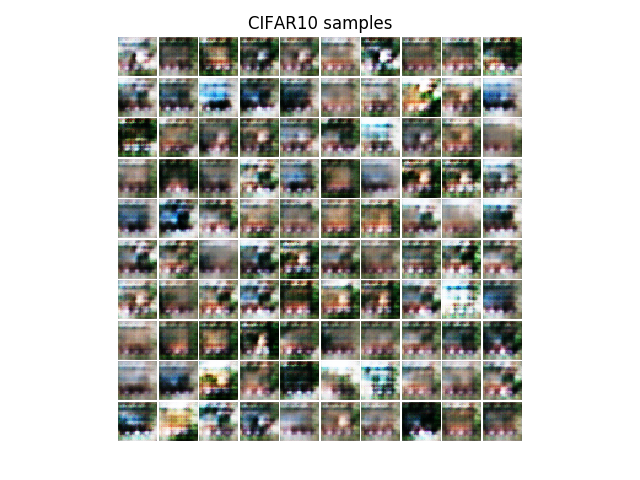
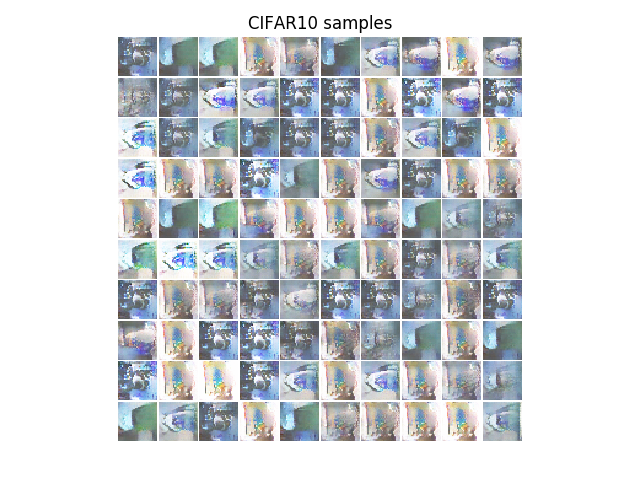
works on gris

diff --git a/mnist_svhn_cifar10/train_gris_feature_matching.py b/mnist_svhn_cifar10/train_gris_feature_matching.py
@@ -1,0 +1,202 @@
+import argparse
+import time
+import numpy as np
+import theano as th
+import theano.tensor as T
+from theano.sandbox.rng_mrg import MRG_RandomStreams
+import lasagne
+import lasagne.layers as ll
+from lasagne.init import Normal
+from lasagne.layers import dnn
+import nn
+import sys
+import plotting
+import cifar10_data
+import pickle
+
+# settings
+parser = argparse.ArgumentParser()
+parser.add_argument('--seed', default=1)
+parser.add_argument('--seed_data', default=1)
+parser.add_argument('--count', default=100)
+parser.add_argument('--batch_size', default=100)
+parser.add_argument('--unlabeled_weight', type=float, default=1.)
+parser.add_argument('--learning_rate', type=float, default=0.0003)
+parser.add_argument('--data_dir', type=str, default='./data/cifar-10-python')
+args = parser.parse_args()
+print(args)
+
+# fixed random seeds
+rng_data = np.random.RandomState(args.seed_data)
+rng = np.random.RandomState(args.seed)
+theano_rng = MRG_RandomStreams(rng.randint(2 ** 15))
+lasagne.random.set_rng(np.random.RandomState(rng.randint(2 ** 15)))
+
+
+with open("/misc/lmbraid19/mittal/master_thesis/git_repo/master-thesis-work/adversarial_autoencoder/pickles/GRIS_new_splits/train/split32x32/unlabeled/data_15000_1.pkl", 'rb') as pickle_load:
+   trainx = np.array(pickle.load(pickle_load))
+   trainx = np.swapaxes(trainx, 1, 3)
+with open("/misc/lmbraid19/mittal/master_thesis/git_repo/master-thesis-work/adversarial_autoencoder/pickles/GRIS_new_splits/train/split32x32/unlabeled/labels_15000_1.pkl", 'rb') as pickle_load:
+   trainy = np.array(pickle.load(pickle_load))
+	
+with open("/misc/lmbraid19/mittal/master_thesis/git_repo/master-thesis-work/adversarial_autoencoder/pickles/GRIS_new_splits/test/split32x32/selected/data_3000_1.pkl", 'rb') as pickle_load:
+   testx = np.array(pickle.load(pickle_load))
+   testx = np.swapaxes(testx, 1, 3)
+with open("/misc/lmbraid19/mittal/master_thesis/git_repo/master-thesis-work/adversarial_autoencoder/pickles/GRIS_new_splits/test/split32x32/selected/labels_3000_1.pkl", 'rb') as pickle_load:
+   testy = np.array(pickle.load(pickle_load))
+
+# load CIFAR-10
+#trainx, trainy = cifar10_data.load(args.data_dir, subset='train')
+trainx_unl = trainx.copy()
+trainx_unl2 = trainx.copy()
+#testx, testy = cifar10_data.load(args.data_dir, subset='test')
+nr_batches_train = int(trainx.shape[0]/args.batch_size)
+nr_batches_test = int(testx.shape[0]/args.batch_size)
+
+# specify generative model
+noise_dim = (args.batch_size, 100)
+noise = theano_rng.uniform(size=noise_dim)
+gen_layers = [ll.InputLayer(shape=noise_dim, input_var=noise)]
+gen_layers.append(nn.batch_norm(ll.DenseLayer(gen_layers[-1], num_units=4*4*512, W=Normal(0.05), nonlinearity=nn.relu), g=None))
+gen_layers.append(ll.ReshapeLayer(gen_layers[-1], (args.batch_size,512,4,4)))
+gen_layers.append(nn.batch_norm(nn.Deconv2DLayer(gen_layers[-1], (args.batch_size,256,8,8), (5,5), W=Normal(0.05), nonlinearity=nn.relu), g=None)) # 4 -> 8
+gen_layers.append(nn.batch_norm(nn.Deconv2DLayer(gen_layers[-1], (args.batch_size,128,16,16), (5,5), W=Normal(0.05), nonlinearity=nn.relu), g=None)) # 8 -> 16
+gen_layers.append(nn.weight_norm(nn.Deconv2DLayer(gen_layers[-1], (args.batch_size,3,32,32), (5,5), W=Normal(0.05), nonlinearity=T.tanh), train_g=True, init_stdv=0.1)) # 16 -> 32
+gen_dat = ll.get_output(gen_layers[-1])
+
+# specify discriminative model
+disc_layers = [ll.InputLayer(shape=(None, 3, 32, 32))]
+disc_layers.append(ll.DropoutLayer(disc_layers[-1], p=0.2))
+disc_layers.append(nn.weight_norm(dnn.Conv2DDNNLayer(disc_layers[-1], 96, (3,3), pad=1, W=Normal(0.05), nonlinearity=nn.lrelu)))
+disc_layers.append(nn.weight_norm(dnn.Conv2DDNNLayer(disc_layers[-1], 96, (3,3), pad=1, W=Normal(0.05), nonlinearity=nn.lrelu)))
+disc_layers.append(nn.weight_norm(dnn.Conv2DDNNLayer(disc_layers[-1], 96, (3,3), pad=1, stride=2, W=Normal(0.05), nonlinearity=nn.lrelu)))
+disc_layers.append(ll.DropoutLayer(disc_layers[-1], p=0.5))
+disc_layers.append(nn.weight_norm(dnn.Conv2DDNNLayer(disc_layers[-1], 192, (3,3), pad=1, W=Normal(0.05), nonlinearity=nn.lrelu)))
+disc_layers.append(nn.weight_norm(dnn.Conv2DDNNLayer(disc_layers[-1], 192, (3,3), pad=1, W=Normal(0.05), nonlinearity=nn.lrelu)))
+disc_layers.append(nn.weight_norm(dnn.Conv2DDNNLayer(disc_layers[-1], 192, (3,3), pad=1, stride=2, W=Normal(0.05), nonlinearity=nn.lrelu)))
+disc_layers.append(ll.DropoutLayer(disc_layers[-1], p=0.5))
+disc_layers.append(nn.weight_norm(dnn.Conv2DDNNLayer(disc_layers[-1], 192, (3,3), pad=0, W=Normal(0.05), nonlinearity=nn.lrelu)))
+disc_layers.append(nn.weight_norm(ll.NINLayer(disc_layers[-1], num_units=192, W=Normal(0.05), nonlinearity=nn.lrelu)))
+disc_layers.append(nn.weight_norm(ll.NINLayer(disc_layers[-1], num_units=192, W=Normal(0.05), nonlinearity=nn.lrelu)))
+disc_layers.append(ll.GlobalPoolLayer(disc_layers[-1]))
+disc_layers.append(nn.weight_norm(ll.DenseLayer(disc_layers[-1], num_units=10, W=Normal(0.05), nonlinearity=None), train_g=True, init_stdv=0.1))
+disc_params = ll.get_all_params(disc_layers, trainable=True)
+
+# costs
+labels = T.ivector()
+x_lab = T.tensor4()
+x_unl = T.tensor4()
+temp = ll.get_output(gen_layers[-1], deterministic=False, init=True)
+temp = ll.get_output(disc_layers[-1], x_lab, deterministic=False, init=True)
+init_updates = [u for l in gen_layers+disc_layers for u in getattr(l,'init_updates',[])]
+
+output_before_softmax_lab = ll.get_output(disc_layers[-1], x_lab, deterministic=False)
+output_before_softmax_unl = ll.get_output(disc_layers[-1], x_unl, deterministic=False)
+output_before_softmax_gen = ll.get_output(disc_layers[-1], gen_dat, deterministic=False)
+
+l_lab = output_before_softmax_lab[T.arange(args.batch_size),labels]
+l_unl = nn.log_sum_exp(output_before_softmax_unl)
+l_gen = nn.log_sum_exp(output_before_softmax_gen)
+loss_lab = -T.mean(l_lab) + T.mean(T.mean(nn.log_sum_exp(output_before_softmax_lab)))
+loss_unl = -0.5*T.mean(l_unl) + 0.5*T.mean(T.nnet.softplus(l_unl)) + 0.5*T.mean(T.nnet.softplus(l_gen))
+
+train_err = T.mean(T.neq(T.argmax(output_before_softmax_lab,axis=1),labels))
+
+# test error
+output_before_softmax = ll.get_output(disc_layers[-1], x_lab, deterministic=True)
+test_err = T.mean(T.neq(T.argmax(output_before_softmax,axis=1),labels))
+
+# Theano functions for training the disc net
+lr = T.scalar()
+disc_params = ll.get_all_params(disc_layers, trainable=True)
+disc_param_updates = nn.adam_updates(disc_params, loss_lab + args.unlabeled_weight*loss_unl, lr=lr, mom1=0.5)
+disc_param_avg = [th.shared(np.cast[th.config.floatX](0.*p.get_value())) for p in disc_params]
+disc_avg_updates = [(a,a+0.0001*(p-a)) for p,a in zip(disc_params,disc_param_avg)]
+disc_avg_givens = [(p,a) for p,a in zip(disc_params,disc_param_avg)]
+init_param = th.function(inputs=[x_lab], outputs=None, updates=init_updates, allow_input_downcast=True) # data based initialization
+train_batch_disc = th.function(inputs=[x_lab,labels,x_unl,lr], outputs=[loss_lab, loss_unl, train_err], updates=disc_param_updates+disc_avg_updates, allow_input_downcast=True)
+test_batch = th.function(inputs=[x_lab,labels], outputs=test_err, givens=disc_avg_givens, allow_input_downcast = True)
+samplefun = th.function(inputs=[],outputs=gen_dat)
+
+# Theano functions for training the gen net
+output_unl = ll.get_output(disc_layers[-2], x_unl, deterministic=False)
+output_gen = ll.get_output(disc_layers[-2], gen_dat, deterministic=False)
+m1 = T.mean(output_unl,axis=0)
+m2 = T.mean(output_gen,axis=0)
+loss_gen = T.mean(abs(m1-m2)) # feature matching loss
+gen_params = ll.get_all_params(gen_layers, trainable=True)
+gen_param_updates = nn.adam_updates(gen_params, loss_gen, lr=lr, mom1=0.5)
+train_batch_gen = th.function(inputs=[x_unl,lr], outputs=None, updates=gen_param_updates, allow_input_downcast=True)
+
+# select labeled data
+inds = rng_data.permutation(trainx.shape[0])
+trainx = trainx[inds]
+trainy = trainy[inds]
+txs = []
+tys = []
+for j in range(10):
+    txs.append(trainx[trainy==j][:args.count])
+    tys.append(trainy[trainy==j][:args.count])
+txs = np.concatenate(txs, axis=0)
+tys = np.concatenate(tys, axis=0)
+
+# //////////// perform training //////////////
+for epoch in range(1200):
+    begin = time.time()
+    lr = np.cast[th.config.floatX](args.learning_rate * np.minimum(3. - epoch/400., 1.))
+
+    # construct randomly permuted minibatches
+    trainx = []
+    trainy = []
+    for t in range(int(np.ceil(trainx_unl.shape[0]/float(txs.shape[0])))):
+        inds = rng.permutation(txs.shape[0])
+        trainx.append(txs[inds])
+        trainy.append(tys[inds])
+    trainx = np.concatenate(trainx, axis=0)
+    trainy = np.concatenate(trainy, axis=0)
+    trainx_unl = trainx_unl[rng.permutation(trainx_unl.shape[0])]
+    trainx_unl2 = trainx_unl2[rng.permutation(trainx_unl2.shape[0])]
+    
+    if epoch==0:
+        print(trainx.shape)
+        init_param(trainx[:500]) # data based initialization
+
+    # train
+    loss_lab = 0.
+    loss_unl = 0.
+    train_err = 0.
+    for t in range(nr_batches_train):
+        ran_from = t*args.batch_size
+        ran_to = (t+1)*args.batch_size
+        ll, lu, te = train_batch_disc(trainx[ran_from:ran_to],trainy[ran_from:ran_to],
+                                      trainx_unl[ran_from:ran_to],lr)
+        loss_lab += ll
+        loss_unl += lu
+        train_err += te
+        
+        train_batch_gen(trainx_unl2[t*args.batch_size:(t+1)*args.batch_size],lr)
+
+    loss_lab /= nr_batches_train
+    loss_unl /= nr_batches_train
+    train_err /= nr_batches_train
+    
+    # test
+    test_err = 0.
+    for t in range(nr_batches_test):
+        test_err += test_batch(testx[t*args.batch_size:(t+1)*args.batch_size],testy[t*args.batch_size:(t+1)*args.batch_size])
+    test_err /= nr_batches_test
+
+    # report
+    print("Iteration %d, time = %ds, loss_lab = %.4f, loss_unl = %.4f, train err = %.4f, test err = %.4f" % (epoch, time.time()-begin, loss_lab, loss_unl, train_err, test_err))
+    sys.stdout.flush()
+
+    # generate samples from the model
+    sample_x = samplefun()
+    img_bhwc = np.transpose(sample_x[:100,], (0, 2, 3, 1))
+    img_tile = plotting.img_tile(img_bhwc, aspect_ratio=1.0, border_color=1.0, stretch=True)
+    img = plotting.plot_img(img_tile, title='CIFAR10 samples')
+    plotting.plt.savefig("cifar_sample_feature_match.png")
+
+    # save params
+    #np.savez('disc_params.npz', *[p.get_value() for p in disc_params])
+    #np.savez('gen_params.npz', *[p.get_value() for p in gen_params])
